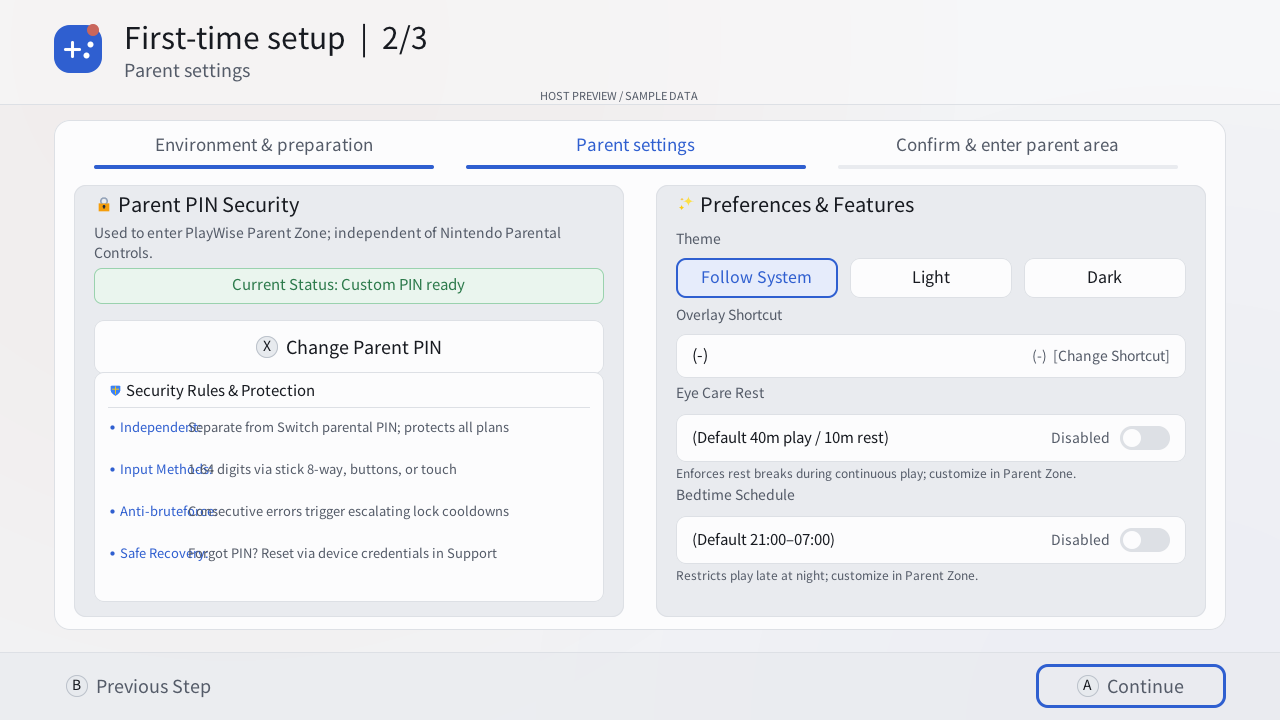
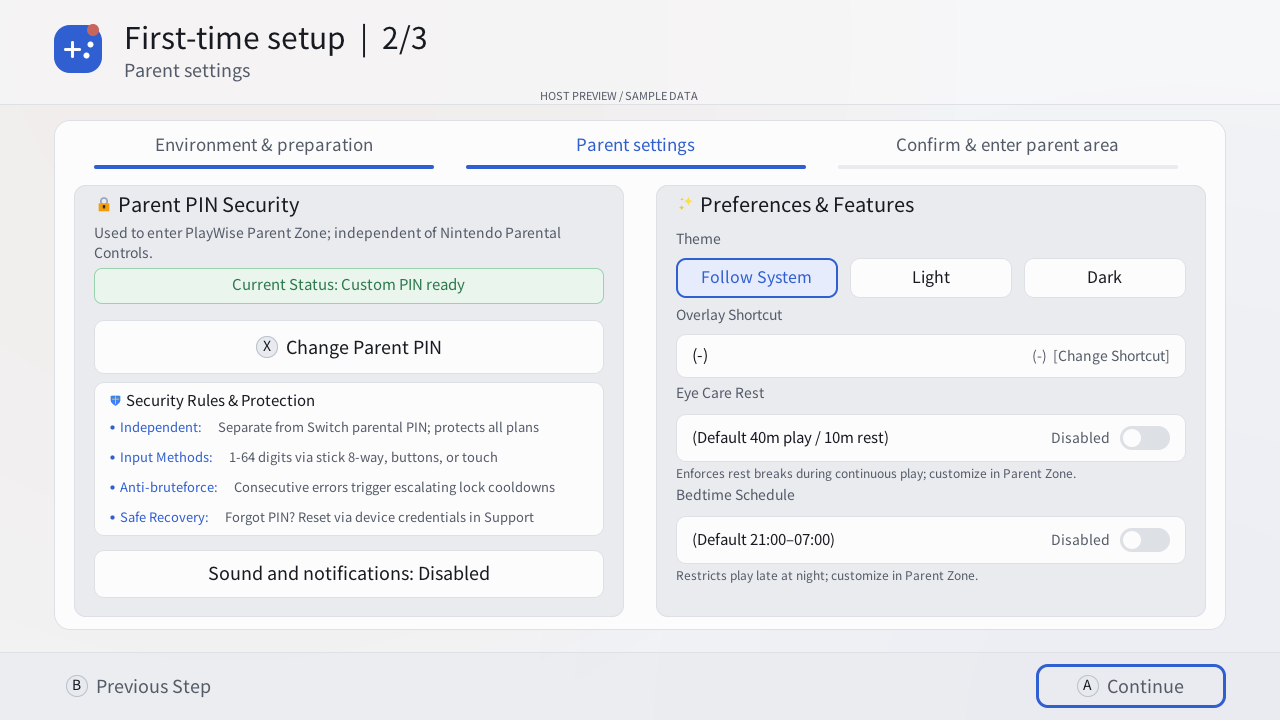
docs(notify): 补充提示预览与中英文使用步骤
- 新增14张setup、通知配置与护眼详情中英文预览
- 补充开启、配置状态及自动详情与通知兜底说明
- 统一构建含Eden NRO与242张文档预览核对通过

Changed region(s): [[0.0625, 0.5194, 0.4375, 0.7333], [0.0938, 0.7639, 0.4062, 0.825]]

diff --git a/tests/overlay_preview/render.cpp b/tests/overlay_preview/render.cpp
@@ -629,7 +629,7 @@ int main(int argc, char **argv) {
             "overlay-parent-pending", "overlay-parent-stale", "overlay-parent-busy", "overlay-parent-pin-cooldown",
             "overlay-console-usage", "overlay-console-unknown",
             "overlay-console-details", "overlay-console-details-unknown", "overlay-parent-pin-clock-unavailable",
-            "overlay-language-confirm"};
+            "overlay-language-confirm", "overlay-auto-detail-eye"};
         auto run_language_pass = [&](int language) -> int {
             int child_overflows = 0;
             ptc_ui_language_set_resolved(languages[language]);
@@ -877,6 +877,19 @@ int main(int argc, char **argv) {
                     view.parent_view_ = ParentView::Pin;
                     view.pin_length_ = 0;
                     std::snprintf(view.pin_message_, sizeof(view.pin_message_), "%s", ptc_ui_text(PTC_UI_T_PIN_CLOCK_UNAVAILABLE));
+                }
+                // Static sample of the page automatic detail requests open.
+                // Rendering this scene does not exercise hidden wake or its ACK.
+                if (std::strcmp(scenes[scene], "overlay-auto-detail-eye") == 0) {
+                    view.status_expanded_ = true;
+                    view.details_tech_expanded_ = false;
+                    status.bedtime_active = status.bedtime_enabled = status.bedtime_next_available = false;
+                    status.dock_restriction_active = status.undocked_limit_enabled = false;
+                    status.restricted_now = 1;
+                    status.eye_care_enabled = true;
+                    status.eye_care_break_id = 123;
+                    status.eye_care_rest_remaining_seconds = 300;
+                    std::snprintf(status.eye_care_phase, sizeof(status.eye_care_phase), "resting");
                 }
                 renderer.text_runs.clear();
                 view.draw_overlay(&renderer, PTC_OVERLAY_CONTENT_X, PTC_OVERLAY_CONTENT_Y,

diff --git a/tests/ui_preview/render.c b/tests/ui_preview/render.c
@@ -864,6 +864,11 @@ static int render_setup_previews(const char *directory, const PtcUiModel *baseli
         model.setup_step = step;
         snprintf(name, sizeof(name), "setup-step-%d", step);
         failed |= save_preview(directory, "setup", name, &model, dark);
+        if (step == PTC_UI_SETUP_PARENT) {
+            model.setup_focus = 6;
+            failed |= save_preview(directory, "setup", "setup-notifications", &model, dark);
+            model.setup_focus = 0;
+        }
     }
     model.setup_step = PTC_UI_SETUP_PREPARE;
     model.setup_focus = 2;
@@ -1696,6 +1701,11 @@ static int render_all_previews(const char *directory, const PtcUiModel *baseline
             snprintf(settings_dlg.overlay_title, sizeof(settings_dlg.overlay_title), "%s", ptc_ui_text(PTC_UI_T_ALERT_PREFERENCES));
             snprintf(settings_dlg.overlay_body, sizeof(settings_dlg.overlay_body), "%s", ptc_ui_text(PTC_UI_T_REASON_NOTICE_EXPERIMENT));
             failed |= save_preview(directory, "settings", "settings-notifications", &settings_dlg, dark);
+            settings_dlg.reason_external_notifications = 1;
+            failed |= save_preview(directory, "settings", "settings-notifications-ready", &settings_dlg, dark);
+            settings_dlg.reason_external_notifications = -1;
+            settings_dlg.reason_overlay_shortcut[0] = '\0';
+            failed |= save_preview(directory, "settings", "settings-notifications-unknown", &settings_dlg, dark);
             settings_dlg = model;
             settings_dlg.overlay = PTC_UI_OVERLAY_SHORTCUT_MANAGER;
             settings_dlg.setup_shortcut_index = 0;

diff --git a/tools/build/sync_doc_previews.py b/tools/build/sync_doc_previews.py
@@ -38,6 +38,8 @@ PREVIEW_FILES = (
     "setup/setup-step-1-light.png",
     "setup/setup-pctl-help-light.png",
     "setup/setup-step-2-light.png",
+    "setup/setup-notifications-light.png",
+    "setup/setup-notifications-dark.png",
     "setup/setup-step-3-light.png",
     "grant/grant-entry-light.png",
     "grant/grant-duration-editor-light.png",
@@ -69,6 +71,10 @@ PREVIEW_FILES = (
     "autonomy/autonomy-policy-light.png",
     "plan/eye-care-switch-on-light.png",
     "settings/settings-root-dark.png",
+    "settings/settings-notifications-ready-light.png",
+    "settings/settings-notifications-ready-dark.png",
+    "settings/settings-notifications-dark.png",
+    "settings/settings-notifications-unknown-light.png",
     "settings/config-backup-create-light.png",
     "settings/config-backup-light.png",
     "settings/config-backup-security-dark.png",
@@ -105,6 +111,7 @@ PREVIEW_FILES = (
     "overlay/overlay-console-details-unknown.png",
     "overlay/overlay-bedtime.png",
     "overlay/overlay-eye-care.png",
+    "overlay/overlay-auto-detail-eye.png",
     "overlay/overlay-rest-stale.png",
     "overlay/overlay-rest-expired.png",
     "overlay/overlay-eye-playing.png",

diff --git a/docs/使用/使用指南.md b/docs/使用/使用指南.md
@@ -41,6 +41,8 @@
 
 第一次启动后，按向导完成三步。检查与保存错误只在页面内提示，不阻止继续；完成引导不代表额度管理已启用。中途退出会保留已成功保存的进度，保存失败时本次仍可继续，下次可能需要重设。
 
+第二步左侧的“声音与通知”可选开启自动限制提示；默认关闭，跳过不影响核心设置。点击或用方向键选中后按 A 进入，B 返回向导。开启步骤与三种通知配置状态见[提示预览与开启步骤](#提示预览与开启步骤)。
+
 1. **环境与准备**：顶部可选择跟随系统、简体中文、繁體中文或 English，默认跟随系统；语言功能说明固定中英双语，选择后立即更新其余文案。核对当前固件与参考环境（OLED、HOS 22.5.0、Atmosphère 1.11.2）、官方家长控制是否开启和浮窗可用性。未开启或无法读取时，可打开“开启家长控制说明”查看系统设置步骤，也可先继续设置。卡片内直接展示主机日期时间与 DBI / QuickNTP 校时指引，不要求联网或校时确认。
 2. **家长设置**：全新安装默认任我玩家长密码 `110`，建议立即修改；已有密码保持原值。采用双列卡片布局：左侧管理家长密码安全与状态；右侧提供界面主题、呼出快捷键、护眼休息开关与就寝规则开关。护眼休息与就寝规则默认保持“关闭”，由家长在向导中主动点击开启；开启后分别预设标准护眼节奏（玩 40 分 / 休息 10 分）与就寝时段（工作日 21:00 / 周末 22:00），进入家长区后仍可自由调整。
 3. **确认并进入家长区**：看板总览核对环境、额度、密码、护眼与就寝状态。选择“启用并进入家长区”，后台保存安装前设置，安全接管保留今天总额度和剩余时间；也可选择“暂不启用，进入家长区”。确认启用成功后进入“今日安排”；跳过、失败或结果未确认时进入“支持与恢复”，聚焦“导出诊断包”。启用等待期间也可进入支持页，继续核对原请求，不重复提交。
@@ -486,6 +488,47 @@
 通知以“今天的游戏时间用完啦”“该睡觉啦”“让眼睛休息一下吧”“请连接电视继续玩”等短句说明当前主要状态，下一行显示对应时间：每日明确用完为0分钟，休息／本次就寝显示“提醒时”剩余时长，不足1分钟会单独说明；电视要求不伪造倒计时，未知时间显示“剩余时间待确认”。提示框保持清楚字号，随正文换行增高。旧37b0fc候选的25图已集中复核，但不证明新增自动详情链。通知中的时间是提醒时快照，持续倒计时和最新状态仍须打开详情查看。
 
 通知请求显示约10秒，实际时长由管理器调度和动画决定；任我玩尽力在约2秒内清理尚未消费的自有消息。原因变化或开关关闭不能立即撤回已进入管理器内存的提示，不能以通知仍在／已经消失判断限制是否解除。没有自动提示时仍可手动打开详情；切勿把剩余时间或某项休息结束当作所有限制都已解除。更多兼容性和生命周期边界见[通知契约](../设计/自动原因通知.md)。
+
+#### 提示预览与开启步骤
+
+以下均为 **HOST PREVIEW / SAMPLE DATA（主机预览／示例数据）**：由当前生产页面绘制代码和固定数据生成，不是真机截图。图片展示页面与设置状态，不证明自动弹出、接收成功或真机倒计时已通过验收。
+
+| setup 中的可选入口 | 开启后的通知偏好（浅色） |
+| --- | --- |
+| ![首次设置第二步选中声音与通知](../images/usage/setup/setup-notifications-light.png) | ![提示已开启，通知配置开启但驻留接收未确认](../images/usage/settings/settings-notifications-ready-light.png) |
+
+<details>
+<summary>查看深色 setup 入口</summary>
+
+![深色首次设置的声音与通知入口](../images/usage/setup/setup-notifications-dark.png)
+
+</details>
+
+已安装用户从“安全与偏好 → 声音与通知”进入同一页面。用上下方向键选择“自动限制提示”，按 A 切换，或直接点击该行；按键音效独立控制。开启前请阅读全局通知说明：任我玩会准备 Ultrahand 的全局通知配置，因此也会影响其他软件的通知。保存失败时开关会恢复；若只有通知依赖未准备好，自有提示偏好仍可保存，页面会如实提示。
+
+| 通知配置开启（深色） | 通知配置关闭：提示偏好仍可保留 |
+| --- | --- |
+| ![深色提示偏好与驻留接收未确认说明](../images/usage/settings/settings-notifications-ready-dark.png) | ![提示开启但管理器通知配置关闭](../images/usage/settings/settings-notifications-dark.png) |
+
+| 页面状态 | 代表什么、如何处理 |
+| --- | --- |
+| 通知配置：开启；驻留接收未确认 | 已保存或原本已开启。必要时正常重新打开管理器，使其读取配置；不必重启整机，也不必为每条通知重复启用。配置开启不保证接收者已驻留。 |
+| 通知配置：关闭 | 可关闭再开启自有提示，重新尝试准备；仍失败时检查兼容管理器及 SD 卡。 |
+| 通知配置：未知 | 配置缺失、无法读取或内容有歧义。任我玩不会自动安装或换装管理器；核心家长控制仍可继续设置。 |
+
+![管理器通知配置未知时保留通用详情入口](../images/usage/settings/settings-notifications-unknown-light.png)
+
+要尝试自动详情，先在未受限时正常打开任我玩浮窗，确认状态可刷新，再用浮窗加载器当前配置的隐藏操作将其收起并保持加载。若在手动打开的根页按 B 返回管理器，任我玩已退出，此时走短通知兜底；从其他浮窗或管理器不能自动切换过来。HOME／POWER 后自动详情暂停，需再次手动打开任我玩；不要用 HOME 代替保持自动准备的隐藏操作。
+
+| 自动详情打开的页面示意 | 护眼休息的普通浮窗页面示意 |
+| --- | --- |
+| ![固定护眼休息示例的详情页，不证明自动唤起成功](../images/usage/overlay/overlay-auto-detail-eye.png) | ![护眼休息的状态与操作入口](../images/usage/overlay/overlay-eye-care.png) |
+
+新的可靠限制事件到来时，已加载且隐藏的任我玩优先刷新并展示对应详情。PIN、兑换输入、家长操作等敏感页面不被自动切走；没有就绪浮窗或两秒内未确认详情时，尝试一次短通知。自动打开的详情按 B 逐层返回，根页 B 隐藏并交还输入；同一限制关闭后不反复弹出。通知仍提供手动入口，快捷键以你自己的配置为准。
+
+例如护眼通知正文可能是“让眼睛休息一下吧／休息还剩约5分钟（提醒时）／L＋↓ 详情”。其中5分钟和组合键只是示例，短通知不会逐秒更新；打开详情并刷新才能查看新状态。一项休息结束不代表每日额度、就寝或电视限制也已解除。
+
+关闭“自动限制提示”只关闭任我玩的提示，不会关闭管理器的全局通知，以免影响其他软件。恢复界面偏好的备份也只恢复任我玩设置，不改写管理器配置。
 
 > [!IMPORTANT]
 > **使用前先确认浮窗可打开**：

diff --git a/docs/使用/USER_GUIDE.md b/docs/使用/USER_GUIDE.md
@@ -36,6 +36,8 @@ Current release candidates qualify specifically against Nintendo Switch OLED, HO
 
 ## Initial Setup
 
+Step two includes an optional **Sound and notifications** entry on the left. Select it with the D-pad and A, or tap it; B returns to setup. Hints are off by default and can be skipped without blocking core setup. See [Hint previews and setup](#hint-previews-and-setup) for the controls and notice configuration states.
+
 The wizard has three steps. Check and save errors appear inline and never prevent continuing. Finishing the wizard does not mean controls are active. Saved progress resumes on reopening; settings that could not be saved may need to be entered again.
 
 1. **Environment & preparation**: Choose Follow System (default), 简体中文, 繁體中文, or English. The language selector title and help remain bilingual Chinese/English; the rest of the wizard changes immediately. Compare your console with the reference environment (OLED, HOS 22.5.0, Atmosphère 1.11.2), check that Nintendo Parental Controls is enabled, and test the overlay. Disabled or unreadable controls offer “Enable Controls Help” with the system settings steps and allow continuing. The card directly displays console date, time and time zone alongside DBI / QuickNTP time sync guidance without requiring network or manual toggle.
@@ -781,3 +783,42 @@ Fresh restriction events first request current details from an already loaded, h
 Notices use child-friendly wording for daily time, bedtime, eye rest or TV mode. They show time left **at the notice**, not a live countdown: known daily exhaustion is zero; rest and bedtime use their own remaining duration; under one minute stays explicit. Unknown time stays unknown. TV requirements do not invent a countdown, and the end of one restriction does not promise play is available. The receiver expands the box at the same readable font size; the new layout awaits device acceptance.
 
 Use the saved shortcut in a fallback notice to open current details manually. Missing or invalid shortcut settings show Open PlayWise for details. Saved settings do not prove the resident manager has loaded them. Short notices do not take input focus; automatic details acquire the existing overlay input lease. Repeated status reads do not repeat the same hint; rapid changes coalesce with a ten-second attempt limit and still require fresh policy data. The requested short-notice duration is ten seconds; cleanup of unconsumed owned files targets two seconds. The receiver may retain a consumed notice, so disappearance or continued visibility does not prove restriction or recovery. Disabling hints leaves the manager's global notices enabled for other apps; restoring preferences only changes PlayWise's own setting.
+
+#### Hint previews and setup
+
+These are **HOST PREVIEW / SAMPLE DATA** images, generated by the production page renderer with fixed data rather than captured on a console. They show pages and setting states; they do not verify automatic opening, reception or a real console countdown.
+
+| Optional entry in setup | Enabled hint preference (light) |
+| --- | --- |
+| ![Sound and notifications selected in setup step two](../images/usage-en/setup/setup-notifications-light.png) | ![Hints enabled with notice configuration on and resident reception unconfirmed](../images/usage-en/settings/settings-notifications-ready-light.png) |
+
+<details>
+<summary>View the dark setup entry</summary>
+
+![Sound and notifications entry in dark setup](../images/usage-en/setup/setup-notifications-dark.png)
+
+</details>
+
+Existing users open the same dialog from **Security & Preferences → Sound and notifications**. Select **Automatic restriction hints** with Up/Down and press A, or tap its row. Button sounds are independent. Read the global notice explanation before enabling: preparation changes Ultrahand's global setting and affects other apps. A failed preference save restores the switch. If only dependency preparation fails, the PlayWise preference can remain saved, with the dependency problem shown separately.
+
+| Notice configuration on (dark) | Notice configuration off while hints remain enabled |
+| --- | --- |
+| ![Dark hint preferences with resident reception unconfirmed](../images/usage-en/settings/settings-notifications-ready-dark.png) | ![PlayWise hints enabled but manager notice configuration off](../images/usage-en/settings/settings-notifications-dark.png) |
+
+| State | Meaning and next step |
+| --- | --- |
+| Notice setting: on; resident reception unconfirmed | Saved or already on. Reopen the manager normally if needed to load its settings; a console reboot or per-notice toggle is unnecessary. Saved configuration does not establish that a receiver is resident. |
+| Notice setting: off | Turn PlayWise hints off and on to retry preparation. If it still fails, check the compatible manager and SD card. |
+| Notice setting: unknown | Configuration is missing, unreadable or ambiguous. PlayWise does not install or replace a manager; core setup can continue. |
+
+![Unknown notice configuration with a generic manual detail entry](../images/usage-en/settings/settings-notifications-unknown-light.png)
+
+To try automatic details, first open PlayWise while unrestricted, check that status refresh works, then use the overlay loader's configured hide action to keep PlayWise loaded but hidden. B at a manually opened root exits to the manager, so subsequent hints use short-notice fallback. Automatic details cannot switch from another overlay or manager. HOME or POWER pauses automatic readiness until another manual PlayWise opening; HOME is not a way to hide while keeping automatic readiness.
+
+| Page opened for automatic details | Ordinary eye-rest overlay page |
+| --- | --- |
+| ![Fixed eye-rest detail sample, not evidence of automatic wake](../images/usage-en/overlay/overlay-auto-detail-eye.png) | ![Eye-rest state and ordinary overlay controls](../images/usage-en/overlay/overlay-eye-care.png) |
+
+A new reliable restriction event first requests a fresh detail page from the loaded hidden overlay. Sensitive PIN, redemption and parent-operation pages are preserved. Missing readiness or no confirmed detail within two seconds attempts one short notice. B returns through automatically opened details, then hides the root and releases input; the same restriction does not repeatedly reopen. The fallback notice retains a manual entry using your saved shortcut.
+
+An eye-rest notice may say “Let your eyes rest / Rest: ~5 min left (at notice) / L + Down Info”. The duration and shortcut are examples. Notices do not update every second; open and refresh details for current state. One rest ending does not clear separate daily, bedtime or TV restrictions. Disabling PlayWise hints leaves the manager's global setting enabled for other apps; preference backup restore also leaves manager configuration alone.

diff --git a/docs/开发/验收记录/2026-11/自动化与交互/自动详情优先实施记录-20261111.md b/docs/开发/验收记录/2026-11/自动化与交互/自动详情优先实施记录-20261111.md
@@ -61,3 +61,18 @@ C／Python／UI、114张文档预览、标准包三组件与Zip校验、默认Ed
[1 lines of base64/hex data omitted]
 
 本节为构建后文档记录，文档HEAD可晚于冻结生产源码。不会为本节改写候选、重建或重新部署；后续真机验证仍须绑定上述原Zip及组件哈希。
+
+## 使用说明与预览补充
+
+按用户后续要求，新增7个场景的中英文预览，共14张：setup提示入口浅／暗主题、通知配置开启浅／暗主题、通知配置关闭、通知配置未知、固定护眼休息详情页。均复用生产绘制代码与确定性样例；详情图只演示自动请求所打开的页面，不运行隐藏唤起或ACK链。同步更新英文setup和设置首页的旧预览，中英文使用指南加入逐步开启、三种配置状态、保持加载与退出的区别、B返回、HOME／POWER及短通知兜底说明，README增加直达链接。
+
+实际执行并通过：
+
+```text
+python -u -X utf8 tools/package_remote.py --docker-container playwise-notify-build --identity C:/Users/yeah/.ssh/id_ed25519 --with-previews --preview-scope docs
+python -X utf8 tools/build/sync_doc_previews.py --scope docs --check
+python -X utf8 device-reports/reason-detail-candidate-20261111-01/verify.py
+git diff --check
+```
+
+统一入口通过C／Python／UI、标准包及默认Eden NRO构建／校验；242张中英文文档预览像素核对通过，两个使用指南的各111个图片引用均可达。人工检查了护眼详情、英文浅色通知配置及英文深色setup入口。Eden模拟器场景按策略未执行，无设备操作；本次仅修改文档、预览fixture及同步清单，原冻结候选字节复核通过，不将文档构建产物另作部署候选。

diff --git a/README.md b/README.md
@@ -57,6 +57,8 @@
 
 ## 主要功能
 
+自动限制提示的[开启步骤与浅暗主题预览](docs/使用/使用指南.md#提示预览与开启步骤)包含setup入口、通知配置三种状态，以及自动详情与短通知兜底的使用区别。
+
 - **自动限制详情与通知兜底（实验）**：setup第二步及“安全与偏好 → 声音与通知”提供可选开关，默认关闭。优先请求已加载的任我玩浮窗自动刷新详情，未就绪或有界超时后尝试一次兼容Ultrahand短通知；不能自动从其他浮窗切换。开启时准备并回读全局通知配置，保存不等于驻留接收。新增协作链已实现、真机待验，尚未公开发布或通过完整资格；短通知旧证据限Ultrahand 2.5.3／loader 2.0.2。详见[使用指南](docs/使用/使用指南.md#自动原因通知实验)。
 - **配置备份与导入**：安全与偏好提供完整备份、十一组选择恢复、PIN 与长按确认、事务回滚、日历恢复及配对密钥轮换。
 - **电视模式规则（视力保护）**：为了保护眼睛，限制直接使用掌机/桌面小屏幕；提供启用总开关、非电视模式每日限额（0–1440 分钟，0 为仅电视）及 PIN 今日豁免；非电视用量计入每日总额度，已完成功能测试。

diff --git a/README_en.md b/README_en.md
@@ -66,6 +66,8 @@ The QR code in the first screenshot has been replaced with a **public demo confi
 
 ## Key Features
 
+The [hint setup and light/dark previews](docs/使用/USER_GUIDE.md#hint-previews-and-setup) show the setup entry, three notice configuration states, and when automatic details or short-notice fallback apply.
+
 - **Automatic restriction details with notice fallback (experimental)**: optional in setup step two and Security & Preferences → Sound and notifications, off by default. An already loaded PlayWise overlay refreshes details first; missing readiness or timeout attempts one compatible Ultrahand notice. It cannot switch from another overlay. Enabling prepares and reads back the global notice setting; this does not confirm resident reception. The new cooperation path needs device verification and is not publicly released or fully qualified. Prior notice evidence covers Ultrahand 2.5.3 / loader 2.0.2. See the [usage guide](docs/使用/USER_GUIDE.md#automatic-reason-notices-experimental).
 
 - **Configuration backup/import**: eleven selective groups, PIN/hold verification, transactional rollback, calendar restore and fresh pairing keys; available in Security & Preferences.
